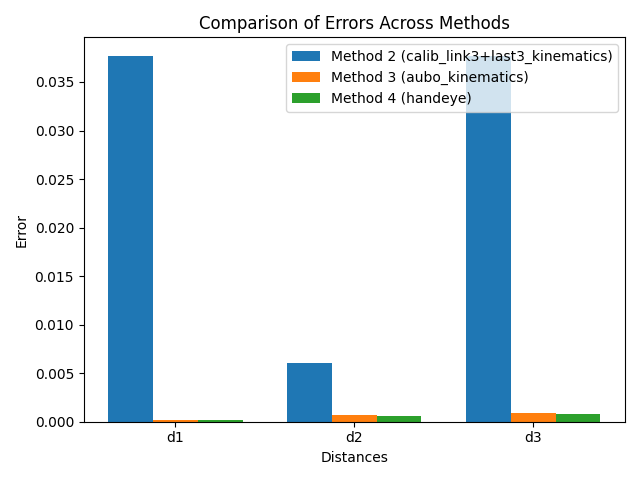
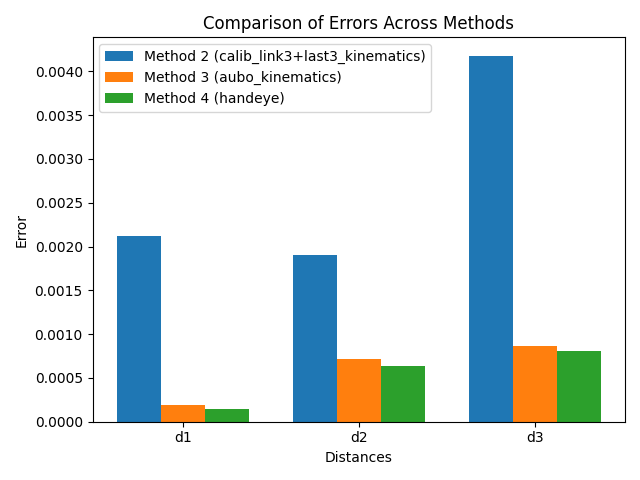
- add high precision tf trans parsing utility. - output the last 3 link RT to 9 decimal places. - update aT3 and err comparison results.

diff --git a/high_precision_tf_echo.py.py b/high_precision_tf_echo.py.py
@@ -1,0 +1,71 @@
+#!/usr/bin/env python3
+
+import rclpy
+from rclpy.node import Node
+from tf2_ros import TransformListener, Buffer
+from geometry_msgs.msg import TransformStamped
+
+class HighPrecisionTfEcho(Node):
+
+    def __init__(self, source_frame, target_frame):
+        super().__init__('high_precision_tf_echo')
+        self.source_frame = source_frame
+        self.target_frame = target_frame
+
+        # Create a TF2 buffer and listener
+        self.tf_buffer = Buffer()
+        self.tf_listener = TransformListener(self.tf_buffer, self)
+
+        # Timer to periodically query and print the transform
+        self.timer = self.create_timer(0.1, self.print_transform_with_high_precision)  # 10 Hz
+
+    def print_transform_with_high_precision(self):
+        try:
+            # Lookup the transform
+            transform: TransformStamped = self.tf_buffer.lookup_transform(
+                self.target_frame,
+                self.source_frame,
+                rclpy.time.Time())  # Get the latest available transform
+
+            # Extract translation
+            translation = transform.transform.translation
+            translation_x = translation.x
+            translation_y = translation.y
+            translation_z = translation.z
+
+            # Extract rotation (quaternion)
+            rotation = transform.transform.rotation
+            rotation_x = rotation.x
+            rotation_y = rotation.y
+            rotation_z = rotation.z
+            rotation_w = rotation.w
+
+            # Print with high precision
+            self.get_logger().info(f"Translation: [{translation_x:.9f}, {translation_y:.9f}, {translation_z:.9f}]")
+            self.get_logger().info(f"Rotation (Quaternion): [{rotation_x:.9f}, {rotation_y:.9f}, {rotation_z:.9f}, {rotation_w:.9f}]")
+
+        except Exception as e:
+            self.get_logger().warn(f"Could not get transform: {str(e)}")
+
+
+def main(args=None):
+    rclpy.init(args=args)
+
+    # Replace these with your source and target frames
+    source_frame = 'source_frame_name'
+    target_frame = 'target_frame_name'
+
+    # Create and spin the node
+    node = HighPrecisionTfEcho(source_frame, target_frame)
+    try:
+        rclpy.spin(node)
+    except KeyboardInterrupt:
+        pass
+
+    # Shutdown and cleanup
+    node.destroy_node()
+    rclpy.shutdown()
+
+
+if __name__ == '__main__':
+    main()
